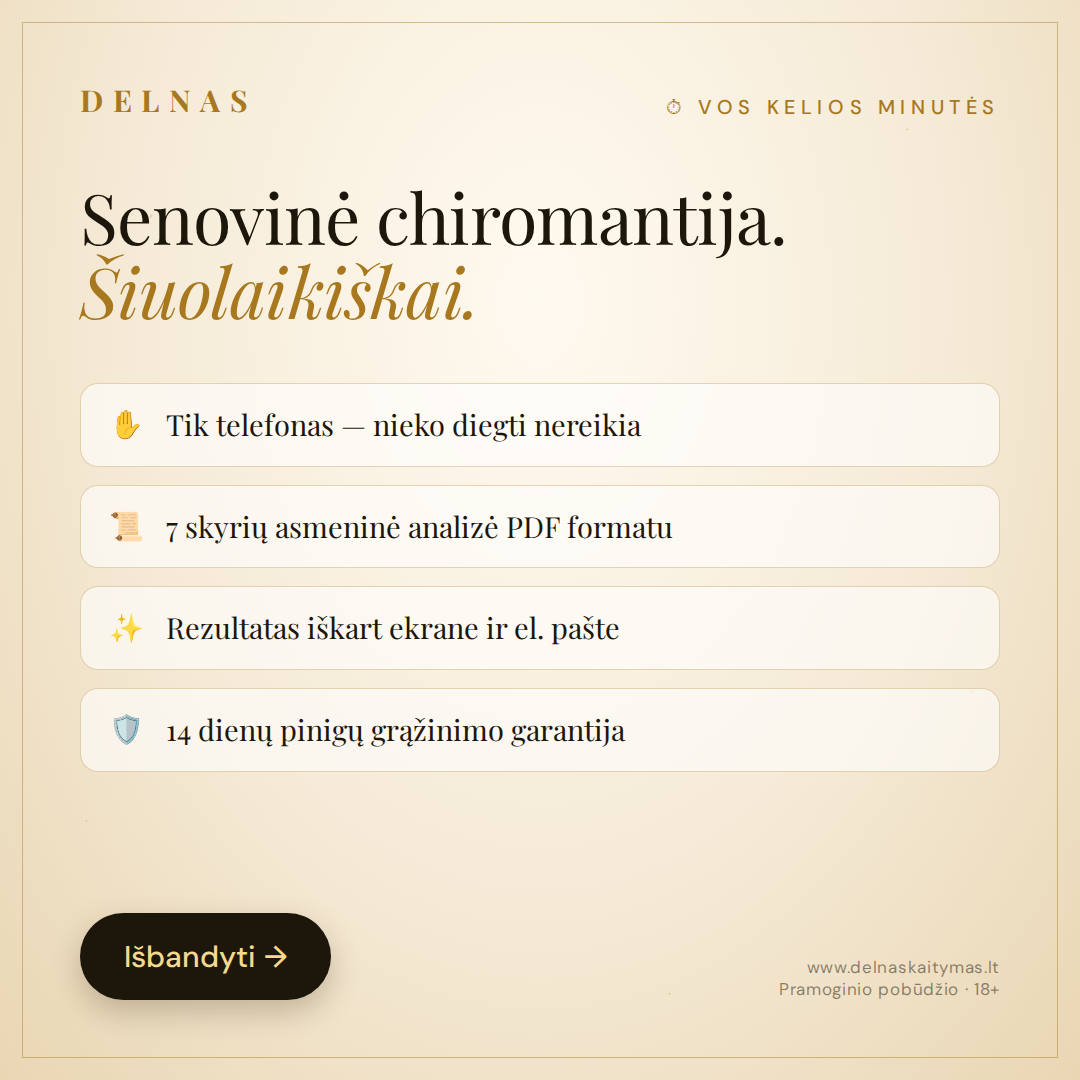
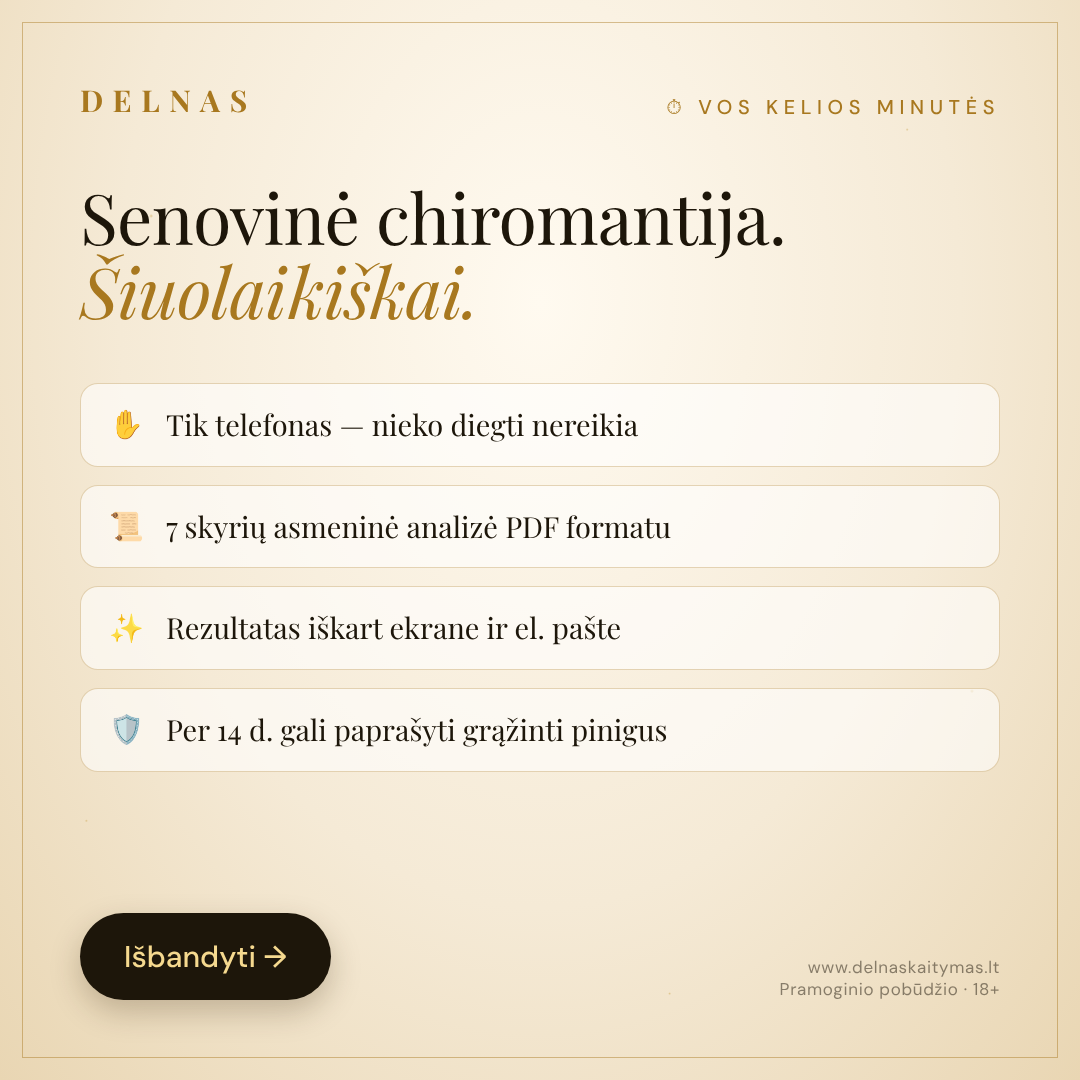
Reklamos: be žodžių „garantija“ ir „be rizikos“ — „Per 14 d. gali paprašyti grąžinti pinigus“, perrenderinti 07 ir 13 paveikslai
Claude-Session: https://claude.ai/code/session_01Sa3j7EGfZzAJeeSKHhzSme

diff --git a/reklamos/reklamos.html b/reklamos/reklamos.html
@@ -287,19 +287,19 @@
 </div>
 </div>
 
-<!-- ============ 7. GARANTIJA 1080×1080 ============ -->
+<!-- ============ 7. GRĄŽINIMAS 1080×1080 ============ -->
 <div>
-<div class="label">07-garantija-1080x1080</div>
-<div class="ad" id="07-garantija-1080x1080" style="width:1080px;height:1080px;padding:80px;align-items:center;text-align:center">
+<div class="label">07-grazinimas-1080x1080</div>
+<div class="ad" id="07-grazinimas-1080x1080" style="width:1080px;height:1080px;padding:80px;align-items:center;text-align:center">
   <div class="brand">DELNAS</div>
   <div style="margin-top:90px;width:250px;height:250px;border-radius:50%;border:2px solid var(--gold);display:flex;flex-direction:column;align-items:center;justify-content:center;box-shadow:0 0 60px rgba(212,168,67,.3),inset 0 0 40px rgba(212,168,67,.12)">
     <div style="font:700 110px/1 'Playfair Display';color:var(--gold)">14</div>
     <div class="eyebrow" style="font-size:18px;margin-top:6px">dienų</div>
   </div>
-  <h1 style="font-size:68px;margin-top:56px">Pinigų grąžinimo<br><em>garantija</em></h1>
-  <p class="sub" style="margin-top:26px;max-width:800px">Asmeninis gyvenimo žemėlapis pagal tavo delnus. Nepatiks — parašyk mums.</p>
+  <h1 style="font-size:68px;margin-top:56px">Nepatiko?<br><em>Parašyk mums</em></h1>
+  <p class="sub" style="margin-top:26px;max-width:800px">Per 14 dienų gali paprašyti grąžinti pinigus — kiekvieną prašymą įvertiname individualiai.</p>
   <div style="margin-top:auto;display:flex;flex-direction:column;gap:20px;align-items:center">
-    <div class="cta" style="align-self:center">Išbandyti be rizikos →</div>
+    <div class="cta" style="align-self:center">Išbandyti →</div>
     <div class="fine">www.delnaskaitymas.lt · Pramoginio pobūdžio · 18+</div>
   </div>
 </div>
@@ -405,7 +405,7 @@
     <div class="lock"><i>✋</i><b>Tik telefonas — nieko diegti nereikia</b></div>
     <div class="lock"><i>📜</i><b>7 skyrių asmeninė analizė PDF formatu</b></div>
     <div class="lock"><i>✨</i><b>Rezultatas iškart ekrane ir el. pašte</b></div>
-    <div class="lock"><i>🛡</i><b>14 dienų pinigų grąžinimo garantija</b></div>
+    <div class="lock"><i>🛡</i><b>Per 14 d. gali paprašyti grąžinti pinigus</b></div>
   </div>
   <div class="row" style="margin-top:auto">
     <div class="cta">Išbandyti →</div>

diff --git a/reklamos/TEKSTAI.md b/reklamos/TEKSTAI.md
@@ -13,7 +13,7 @@ Norint pakeisti tekstą ar spalvas — redaguok `reklamos.html` ir paleisk `node
 | `04-skyriai-1080x1350.png` | 4:5 | IG feed (užima daugiausia ekrano) |
 | `05-story-hero-1080x1920.png` | 9:16 | IG / FB Stories, Reels, TikTok |
 | `06-story-klausimai-1080x1920.png` | 9:16 | IG / FB Stories, Reels, TikTok |
-| `07-garantija-1080x1080.png` | 1:1 | FB / IG feed — pasitikėjimui, kai reklama jau matyta |
+| `07-grazinimas-1080x1080.png` | 1:1 | FB / IG feed — pasitikėjimui, kai reklama jau matyta |
 | `08-landscape-1200x628.png` | 1.91:1 | FB nuorodos reklama, Google Display |
 
 **2 banga (kaitaliojimui):**
@@ -24,7 +24,7 @@ Norint pakeisti tekstą ar spalvas — redaguok `reklamos.html` ir paleisk `node
 | `10-linijos-1080x1350.png` | 4:5 | Tamsus · „Linijos nemeluoja“ (4 delno linijos) |
 | `11-sviesus-hero-1080x1080.png` | 1:1 | Šviesus · „Kas tau lemta?“ |
 | `12-sviesus-story-1080x1920.png` | 9:16 | Šviesus · „Ką pasakoja tavo delnai?“ |
-| `13-sviesus-privalumai-1080x1080.png` | 1:1 | Šviesus · privalumai + garantija |
+| `13-sviesus-privalumai-1080x1080.png` | 1:1 | Šviesus · privalumai + grąžinimo sąlygos |
 | `14-draugems-1080x1080.png` | 1:1 | Tamsus · „Pakviesk draugę — palyginkit“ |
 | `15-draugems-story-1080x1920.png` | 9:16 | Šviesus · „Nustebink draugę“ |
 | `16-ruduo-1080x1350.png` | 4:5 | Sezoninis (ruduo) · „Laikas pokyčiams“ |
@@ -52,7 +52,7 @@ Karuselė (FB/IG): 01 → 02 → 03 → 07.
 > Ką slepia tavo delnai? ✋
 > Nufotografuok abu delnus telefonu — ir per kelias minutes gauk asmeninį gyvenimo žemėlapį: stiprybės, kryptis, santykiai, finansai ir artėjantys pokyčiai.
 > ✦ 7 skyrių analizė ekrane ir PDF el. paštu
-> ✦ 14 dienų pinigų grąžinimo garantija
+> ✦ Per 14 dienų gali paprašyti grąžinti pinigus
 > 👉 www.delnaskaitymas.lt
 
 **B — klausimai**
@@ -76,7 +76,7 @@ Karuselė (FB/IG): 01 → 02 → 03 → 07.
 
 ### Aprašymas (Description)
 - Asmeninė AI chiromantijos analizė · 16,99 €
-- 14 dienų pinigų grąžinimo garantija
+- 14 dienų pinigų grąžinimo sąlygos
 
 ### Mygtukas (CTA)
 „Sužinoti daugiau“ (Learn more) — veikia geriau nei „Pirkti“ tokio tipo produktui.
@@ -93,14 +93,14 @@ Karuselė (FB/IG): 01 → 02 → 03 → 07.
 5. Nufotografuok Delnus
 6. Rezultatas Per Kelias Min.
 7. PDF Tiesiai Į El. Paštą
-8. 14 d. Pinigų Grąžinimas
+8. 14 d. Grąžinimo Sąlygos
 9. 7 Skyrių Asmeninė Analizė
 10. Tik 16,99 €
 
 **Aprašymai (≤90 simb.)**
 1. Nufotografuok abu delnus ir gauk asmeninį gyvenimo žemėlapį per kelias minutes.
 2. Stiprybės, kryptis, santykiai, finansai ir pokyčiai — 7 skyrių analizė PDF formatu.
-3. Mokėjimas apsaugotas Stripe. 14 dienų pinigų grąžinimo garantija.
+3. Mokėjimas apsaugotas Stripe. 14 dienų pinigų grąžinimo sąlygos.
 4. Apple Pay, Google Pay, Revolut Pay ar kortele. Išbandyk dabar!
 
 **Raktažodžiai (pradžiai):** delnų skaitymas, delno linijos, chiromantija, delnų būrimas, ką reiškia delno linijos, gyvenimo linija delne, likimo linija, būrimas internetu.
@@ -137,7 +137,7 @@ Tip: pirmos 2 sekundės svarbiausios — pradėk nuo klausimo ar stipraus delno 
 - Visuose vizualuose yra „Pramoginio pobūdžio · 18+“ — **nenaikink** (sutampa su Naudojimosi sąlygomis).
 - **Meta** draudžia tekstus, kurie tiesiogiai teigia apie žmogaus asmenines savybes („Ar tu vieniša?“, „Tavo skolos…“). Klausimai apie *ateitį ir potencialą* yra OK, bet venk „tu turi problemų su…“.
 - Nežadėk garantuotų rezultatų ar tikslių spėjimų („sužinosi, kada praturtėsi“). Formuluok kaip „atskleisk“, „pažvelk“, „sužinok, ką pasakoja delnai“.
-- Garantiją visada vadink „14 dienų pinigų grąžinimo garantija“ — tiksliai taip, kaip svetainėje.
+- Grąžinimą vadink „14 dienų pinigų grąžinimo sąlygos“ — tiksliai taip, kaip svetainėje. Nerašyk „garantija“, „be rizikos“ ar „grąžinsime pinigus“: gavus analizę grąžinimas savanoriškas ir vertinamas individualiai.
 
 ---
 
@@ -154,7 +154,7 @@ Tip: pirmos 2 sekundės svarbiausios — pradėk nuo klausimo ar stipraus delno 
 **G — šviesus, ramus (11, 12, 13)**
 > Kas tau lemta? 🌙
 > Senovinė chiromantija, šiuolaikiškai: užtenka telefono kameros. Stiprybės, santykiai, finansai ir artėjantys pokyčiai — viename asmeniniame žemėlapyje.
-> 14 dienų pinigų grąžinimo garantija.
+> Per 14 dienų gali paprašyti grąžinti pinigus.
 
 **H — su drauge (14, 15)**
 > Merginų vakarui — kažkas naujo ✨
@@ -301,7 +301,7 @@ Gruodį reklamos kaina (CPM) aukščiausia — biudžetą verta padidinti ~20–
 
 **R — dovana sau (26)**
 > Šias Kalėdas — ir dovana sau 🎄
-> Valanda sau ir asmeninis gyvenimo žemėlapis, prie kurio galėsi sugrįžti visus metus. 14 dienų pinigų grąžinimo garantija.
+> Valanda sau ir asmeninis gyvenimo žemėlapis, prie kurio galėsi sugrįžti visus metus. Per 14 dienų gali paprašyti grąžinti pinigus.
 
 **S — šventinis vakaras (27, 28)**
 > Kažkas naujo prie šventinio stalo ✨
